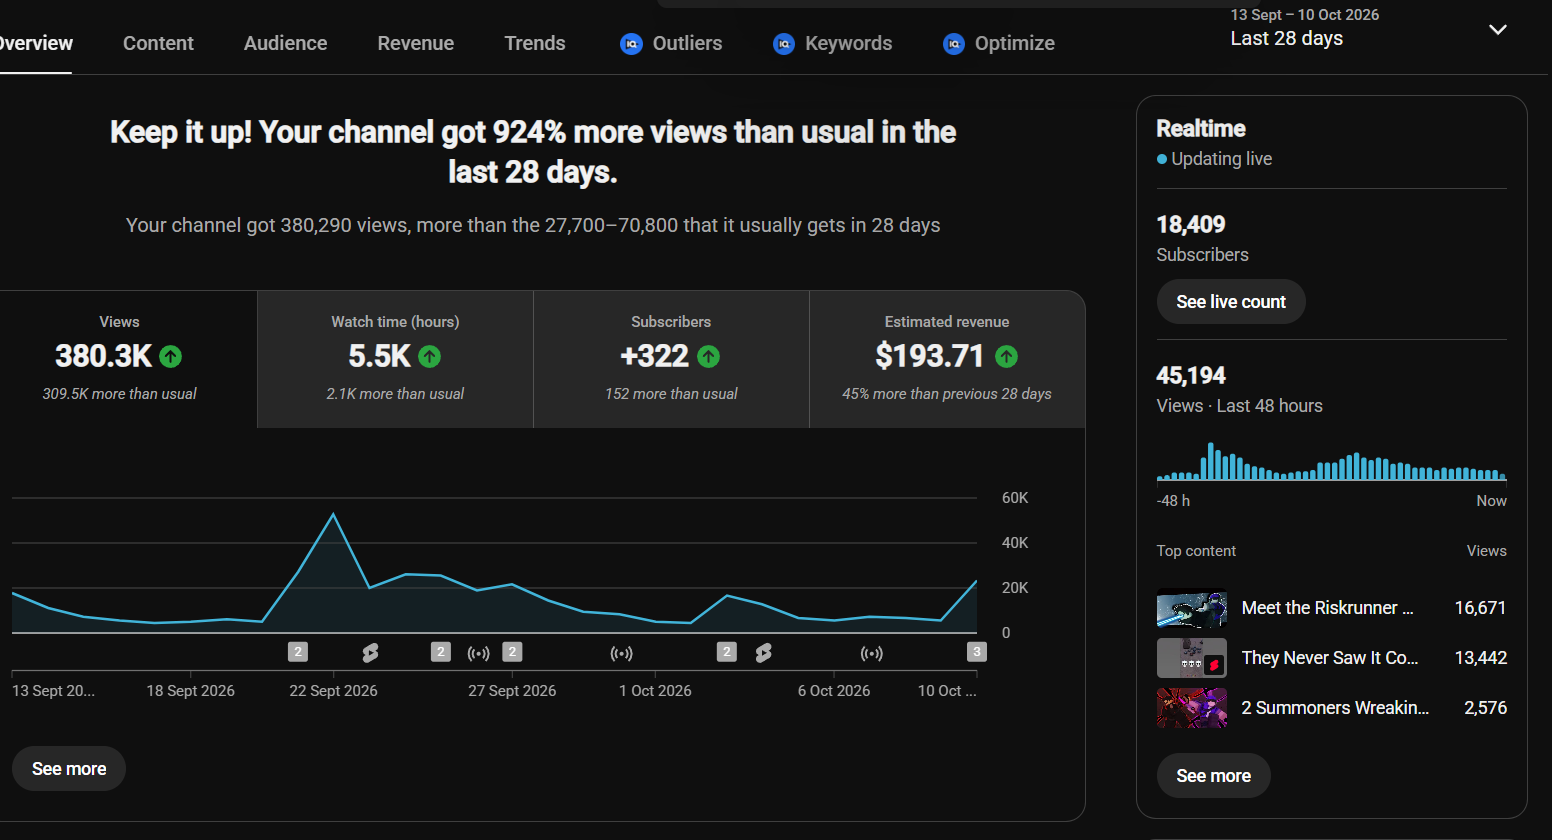
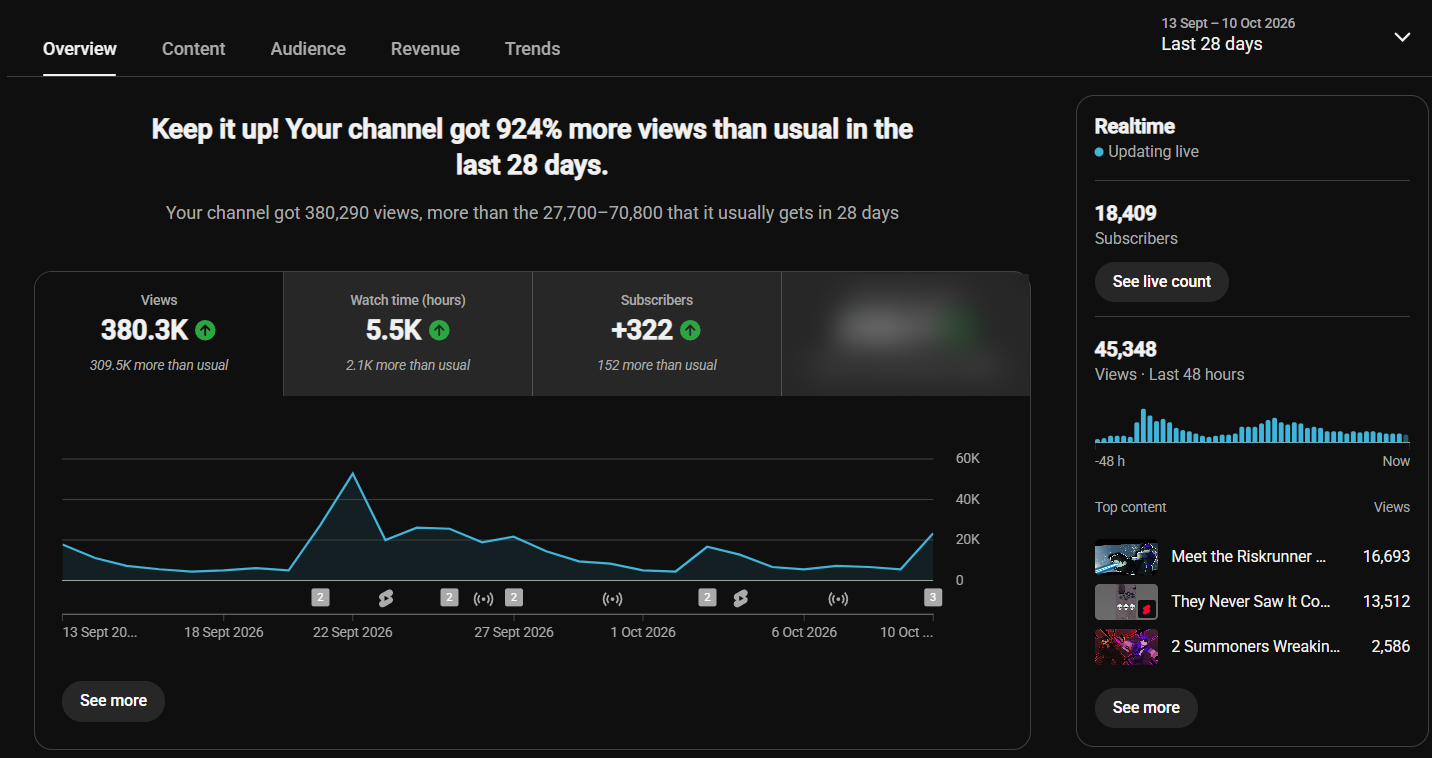
Updated once more

diff --git a/index.html b/index.html
@@ -9,7 +9,7 @@
 <link rel="preconnect" href="https://fonts.gstatic.com" crossorigin>
 <link rel="stylesheet" href="https://fonts.googleapis.com/css2?family=Schibsted+Grotesk:wght@500;600;700&family=IBM+Plex+Sans:wght@400;500&family=IBM+Plex+Mono:wght@400;500&display=swap">
 <style>
-  /* Layout: dark editing-suite feel. Huge hero over a live timeline, then edits, channel + earnings proof, services, contact. */
+  /* Layout: dark editing-suite feel. Huge hero over a live timeline, then edits, channel results, services, contact. */
   :root {
     --bg: #131315;
     --surface: #1b1b1f;
@@ -251,7 +251,26 @@
     border: 1.5px dashed var(--line); background: var(--surface-2);
     display: grid; place-items: center; transition: border-color .2s;
   }
-  .proof.wide .proof-media { aspect-ratio: 1552 / 840; }
+  .proof.wide .proof-media { aspect-ratio: 1432 / 758; }
+  .proofs.single { grid-template-columns: minmax(0, 1fr); margin-top: 28px; }
+
+  /* ---------- Results as text ---------- */
+  .results { display: grid; grid-template-columns: repeat(2, minmax(0, 1fr)); gap: 0; border-top: 1px solid var(--line); }
+  .result { padding: 22px 22px 24px 0; border-bottom: 1px solid var(--line); min-width: 0; }
+  .result:nth-child(odd):not(.hero-num) { padding-left: 22px; border-left: 1px solid var(--line); }
+  .result b {
+    display: block; font-family: var(--font-display); font-weight: 600;
+    font-size: clamp(34px, 4.2vw, 52px); letter-spacing: -0.035em; line-height: 1; font-variant-numeric: tabular-nums;
+  }
+  .result b small { font-size: 0.45em; letter-spacing: 0; color: var(--muted); font-weight: 500; margin-left: 2px; }
+  .result span { display: block; margin-top: 10px; font-size: 15px; color: var(--muted); max-width: 32ch; }
+  .result.hero-num { grid-column: 1 / -1; padding: 8px 0 26px; }
+  .result.hero-num b {
+    font-size: clamp(48px, 8vw, 104px); letter-spacing: -0.05em; line-height: 0.95;
+    background: linear-gradient(100deg, var(--fg) 30%, var(--accent));
+    -webkit-background-clip: text; background-clip: text; color: transparent;
+  }
+  .result.hero-num span { max-width: 44ch; font-size: 16px; }
   .proof:hover .proof-media { border-color: var(--accent); }
   .proof-media img { position: absolute; inset: 0; width: 100%; height: 100%; object-fit: contain; }
   .proof-media.filled { border-style: solid; background: #0f0f0f; }
@@ -259,32 +278,6 @@
   .proof-cap { display: flex; flex-wrap: wrap; justify-content: space-between; gap: 2px 12px; align-items: baseline; }
   .proof-cap strong { font-weight: 500; font-size: 15px; }
   .proof-cap span { font-family: var(--font-mono); font-size: 11.5px; color: var(--muted); letter-spacing: 0.04em; }
-
-  /* ---------- Earnings chart ---------- */
-  .earnings { margin-top: 28px; background: var(--surface); border: 1px solid var(--line); border-radius: 22px; padding: clamp(20px, 3vw, 32px); display: grid; grid-template-columns: minmax(0, 1fr) minmax(0, 2.2fr); gap: clamp(24px, 4vw, 48px); }
-  .earn-facts { display: grid; gap: 22px; align-content: start; }
-  .earn-facts h3 { font-family: var(--font-display); font-weight: 600; font-size: 22px; letter-spacing: -0.02em; margin: 0; }
-  .earn-fact b { display: block; font-family: var(--font-display); font-weight: 600; font-size: clamp(30px, 3.6vw, 40px); letter-spacing: -0.03em; line-height: 1.05; font-variant-numeric: tabular-nums; }
-  .earn-fact span { font-size: 14px; color: var(--muted); }
-  .chart { position: relative; min-width: 0; }
-  .chart-title { font-size: 14px; color: var(--muted); margin: 0 0 14px; }
-  .plot { position: relative; height: 230px; margin-left: 44px; }
-  .gridline { position: absolute; left: 0; right: 0; height: 0; border-top: 1px solid var(--line); }
-  .gridline span { position: absolute; right: calc(100% + 8px); top: -9px; font-family: var(--font-mono); font-size: 11px; color: var(--muted); font-variant-numeric: tabular-nums; }
-  .bars { position: absolute; inset: 0; display: flex; align-items: flex-end; gap: 2px; }
-  .bar { flex: 1; height: 100%; display: flex; align-items: flex-end; justify-content: center; position: relative; cursor: default; outline: none; }
-  .bar i { display: block; width: 72%; max-width: 22px; border-radius: 4px 4px 0 0; background: color-mix(in srgb, var(--accent) 55%, var(--surface)); transition: background .15s; }
-  .bar.top i { background: var(--accent); }
-  .bar:hover i, .bar:focus-visible i { background: var(--fg); }
-  .bar .direct { position: absolute; bottom: calc(var(--h) + 6px); font-family: var(--font-mono); font-size: 11px; color: var(--fg); white-space: nowrap; }
-  .xlabels { display: flex; gap: 2px; margin-left: 44px; margin-top: 8px; font-family: var(--font-mono); font-size: 11px; color: var(--muted); }
-  .xlabels span { flex: 1; text-align: center; white-space: nowrap; overflow: visible; }
-  .tip {
-    position: absolute; z-index: 3; pointer-events: none; transform: translate(-50%, -100%);
-    background: var(--fg); color: var(--bg); font-family: var(--font-mono); font-size: 12px;
-    padding: 6px 10px; border-radius: 8px; white-space: nowrap;
-  }
-  .chart-note { font-size: 13px; color: var(--muted); margin: 16px 0 0; }
 
   /* ---------- Services ---------- */
   .services { display: grid; grid-template-columns: repeat(3, minmax(0, 1fr)); gap: 0; border-top: 1px solid var(--line); }
@@ -340,7 +333,6 @@
   @media (max-width: 960px) {
     .grid-long { grid-template-columns: minmax(0, 1fr); max-width: 640px; }
     .channel-grid { grid-template-columns: minmax(0, 1fr); }
-    .earnings { grid-template-columns: minmax(0, 1fr); }
     .services { grid-template-columns: minmax(0, 1fr); }
     .service, .service + .service { padding: 24px 0; border-left: 0; }
   }
@@ -358,7 +350,6 @@
     .play { width: 46px; height: 46px; }
     .clip-info h4 { font-size: 16px; }
     .ch-body { padding: 0 20px 22px; }
-    .bar .direct { display: none; }
   }
   @media (prefers-reduced-motion: reduce) {
     html { scroll-behavior: auto; }
@@ -426,13 +417,13 @@
 
     <!--
       Numbers use "+" so they stay true as the channel grows. No need to update them often.
-      Source: channel page (5,940,837 views, 18.4K subs, 153 videos) and the earnings sheet ($1,154.84 lifetime).
+      Source: channel page (5,940,837 views, 18.4K subs, 153 videos) and YouTube Studio (380,290 views, Sept–Oct 2026).
     -->
     <div class="stats">
       <div class="stat"><b>5.9M+</b><span>Channel views, mostly long-form</span></div>
       <div class="stat"><b>18K+</b><span>Subscribers</span></div>
       <div class="stat"><b>150+</b><span>Videos published</span></div>
-      <div class="stat"><b>$1,150+</b><span>Earned on YouTube</span></div>
+      <div class="stat"><b>380K</b><span>Views in my best month</span></div>
     </div>
   </div>
 
@@ -549,7 +540,7 @@
     <div class="wrap">
       <div class="sec-head">
         <h2>My channel &amp; results</h2>
-        <p>Screenshots straight from my YouTube Studio. Tap one to see it full size.</p>
+        <p>Numbers from my own channel, where I'm the one editing every video.</p>
       </div>
 
       <div class="channel-grid">
@@ -578,47 +569,40 @@
           </div>
         </div>
 
-        <!-- Proof screenshots. Keep these image files in the same folder as index.html. -->
-        <div class="proofs">
-          <button class="proof wide" type="button" data-img="proof-analytics.png">
-            <div class="proof-media">
-              <img src="proof-analytics.png" alt="YouTube Studio overview: 380.3K views and $193.71 estimated revenue, Sept to Oct 2026">
-              <div class="proof-empty">proof-analytics.png</div>
-            </div>
-            <div class="proof-cap"><strong>380K views in one month, 924% above normal</strong><span>SEPT–OCT 2026</span></div>
-          </button>
-          <button class="proof" type="button" data-img="proof-earnings.png">
-            <div class="proof-media">
-              <img src="proof-earnings.png" alt="YouTube Studio monthly earnings, May to October 2026">
-              <div class="proof-empty">proof-earnings.png</div>
-            </div>
-            <div class="proof-cap"><strong>Monthly earnings</strong><span>MAY–OCT 2026</span></div>
-          </button>
-          <button class="proof" type="button" data-img="proof-channel.png">
-            <div class="proof-media">
-              <img src="proof-channel.png" alt="Kysophy channel page: 18.4K subscribers, 153 videos, 5,940,837 views">
-              <div class="proof-empty">proof-channel.png</div>
-            </div>
-            <div class="proof-cap"><strong>Public channel stats</strong><span>5.9M VIEWS</span></div>
-          </button>
+        <!-- Channel results as text. The "+" numbers stay true as the channel grows. -->
+        <div class="results">
+          <div class="result hero-num">
+            <b>5,900,000+</b>
+            <span>lifetime views on my channel, almost all of them from long-form videos</span>
+          </div>
+          <div class="result">
+            <b>924%</b>
+            <span>more views than usual in my best month: 380K views in 28 days (Sept–Oct 2026)</span>
+          </div>
+          <div class="result">
+            <b>~$200<small>/mo</small></b>
+            <span>what my channel earns when I upload consistently</span>
+          </div>
+          <div class="result">
+            <b>18K+</b>
+            <span>subscribers who came for the edits</span>
+          </div>
+          <div class="result">
+            <b>150+</b>
+            <span>videos published since 2019, every one edited by me</span>
+          </div>
         </div>
       </div>
 
-      <!-- Earnings history from the earnings spreadsheet. It covers Mar 2025 to Sep 2026, so it never needs updating. -->
-      <div class="earnings">
-        <div class="earn-facts">
-          <h3>Earnings history</h3>
-          <div class="earn-fact"><b>$1,150+</b><span>Earned since the channel was monetized in March 2025</span></div>
-          <div class="earn-fact"><b>$202</b><span>Best month, August 2026</span></div>
-          <div class="earn-fact"><b>$697</b><span>Earned Jan–Sep 2026, already 1.5× all of 2025</span></div>
-        </div>
-        <div class="chart">
-          <p class="chart-title">YouTube earnings per month, US$</p>
-          <div class="plot" id="plot" role="img" aria-label="Monthly YouTube earnings from March 2025 to September 2026, rising to a best month of $202 in August 2026."></div>
-          <div class="xlabels" id="xlabels" aria-hidden="true"></div>
-          <div class="tip" id="tip" hidden></div>
-          <p class="chart-note">Hover or tap a bar to see the exact amount.</p>
-        </div>
+      <!-- Proof screenshot (revenue box blurred). Keep proof-analytics.png in the same folder as index.html. -->
+      <div class="proofs single">
+        <button class="proof wide" type="button" data-img="proof-analytics.png">
+          <div class="proof-media">
+            <img src="proof-analytics.png" alt="YouTube Studio overview: 380.3K views in 28 days, 924% more than usual, Sept to Oct 2026">
+            <div class="proof-empty">proof-analytics.png</div>
+          </div>
+          <div class="proof-cap"><strong>My best month in YouTube Studio · tap to enlarge</strong><span>SEPT–OCT 2026</span></div>
+        </button>
       </div>
     </div>
   </section>
@@ -766,44 +750,6 @@
         big.src = btn.getAttribute('data-img'); big.alt = img.alt;
         openViewer(big);
       });
-    });
-
-    /* Earnings chart (from the earnings spreadsheet, US$ per month) */
-    var data = [
-      ['Mar 2025', 16.72], ['Apr 2025', 68.86], ['May 2025', 57.88], ['Jun 2025', 51.90], ['Jul 2025', 47.26],
-      ['Aug 2025', 39.16], ['Sep 2025', 29.97], ['Oct 2025', 26.92], ['Nov 2025', 67.99], ['Dec 2025', 50.93],
-      ['Jan 2026', 17.20], ['Feb 2026', 29.34], ['Mar 2026', 24.31], ['Apr 2026', 18.48], ['May 2026', 37.69],
-      ['Jun 2026', 55.73], ['Jul 2026', 113.89], ['Aug 2026', 202.13], ['Sep 2026', 198.48]
-    ];
-    var max = 250, plot = document.getElementById('plot'), xl = document.getElementById('xlabels'), tip = document.getElementById('tip');
-    [50, 100, 150, 200, 250].forEach(function (v) {
-      var g = document.createElement('div'); g.className = 'gridline'; g.style.bottom = (v / max * 100) + '%';
-      g.innerHTML = '<span>$' + v + '</span>'; plot.appendChild(g);
-    });
-    var base = document.createElement('div'); base.className = 'gridline'; base.style.bottom = '0'; base.innerHTML = '<span>$0</span>'; plot.appendChild(base);
-    var bars = document.createElement('div'); bars.className = 'bars'; plot.appendChild(bars);
-    var best = Math.max.apply(null, data.map(function (d) { return d[1]; }));
-    data.forEach(function (d) {
-      var b = document.createElement('div'); b.className = 'bar' + (d[1] === best ? ' top' : '');
-      b.tabIndex = 0; b.setAttribute('aria-label', d[0] + ': $' + d[1].toFixed(2));
-      var h = (d[1] / max * 100) + '%';
-      b.style.setProperty('--h', h);
-      b.innerHTML = '<i style="height:' + h + '"></i>' + (d[1] === best ? '<span class="direct">$' + Math.round(d[1]) + '</span>' : '');
-      function show() {
-        var pr = plot.getBoundingClientRect(), br = b.getBoundingClientRect(), cr = plot.parentNode.getBoundingClientRect();
-        tip.textContent = d[0] + ' · $' + d[1].toFixed(2);
-        tip.hidden = false;
-        var x = br.left + br.width / 2 - cr.left;
-        x = Math.max(70, Math.min(cr.width - 70, x));
-        tip.style.left = x + 'px';
-        tip.style.top = (pr.bottom - cr.top - (d[1] / max) * pr.height - 10) + 'px';
-      }
-      b.addEventListener('pointerenter', show); b.addEventListener('focus', show); b.addEventListener('click', show);
-      b.addEventListener('pointerleave', function () { tip.hidden = true; }); b.addEventListener('blur', function () { tip.hidden = true; });
-      bars.appendChild(b);
-      var s = document.createElement('span');
-      s.textContent = (d[0] === 'Mar 2025' || d[0] === 'Jan 2026' || d[0] === 'Sep 2026') ? d[0].replace(' 20', " '") : '';
-      xl.appendChild(s);
     });
 
     /* Copy email */
